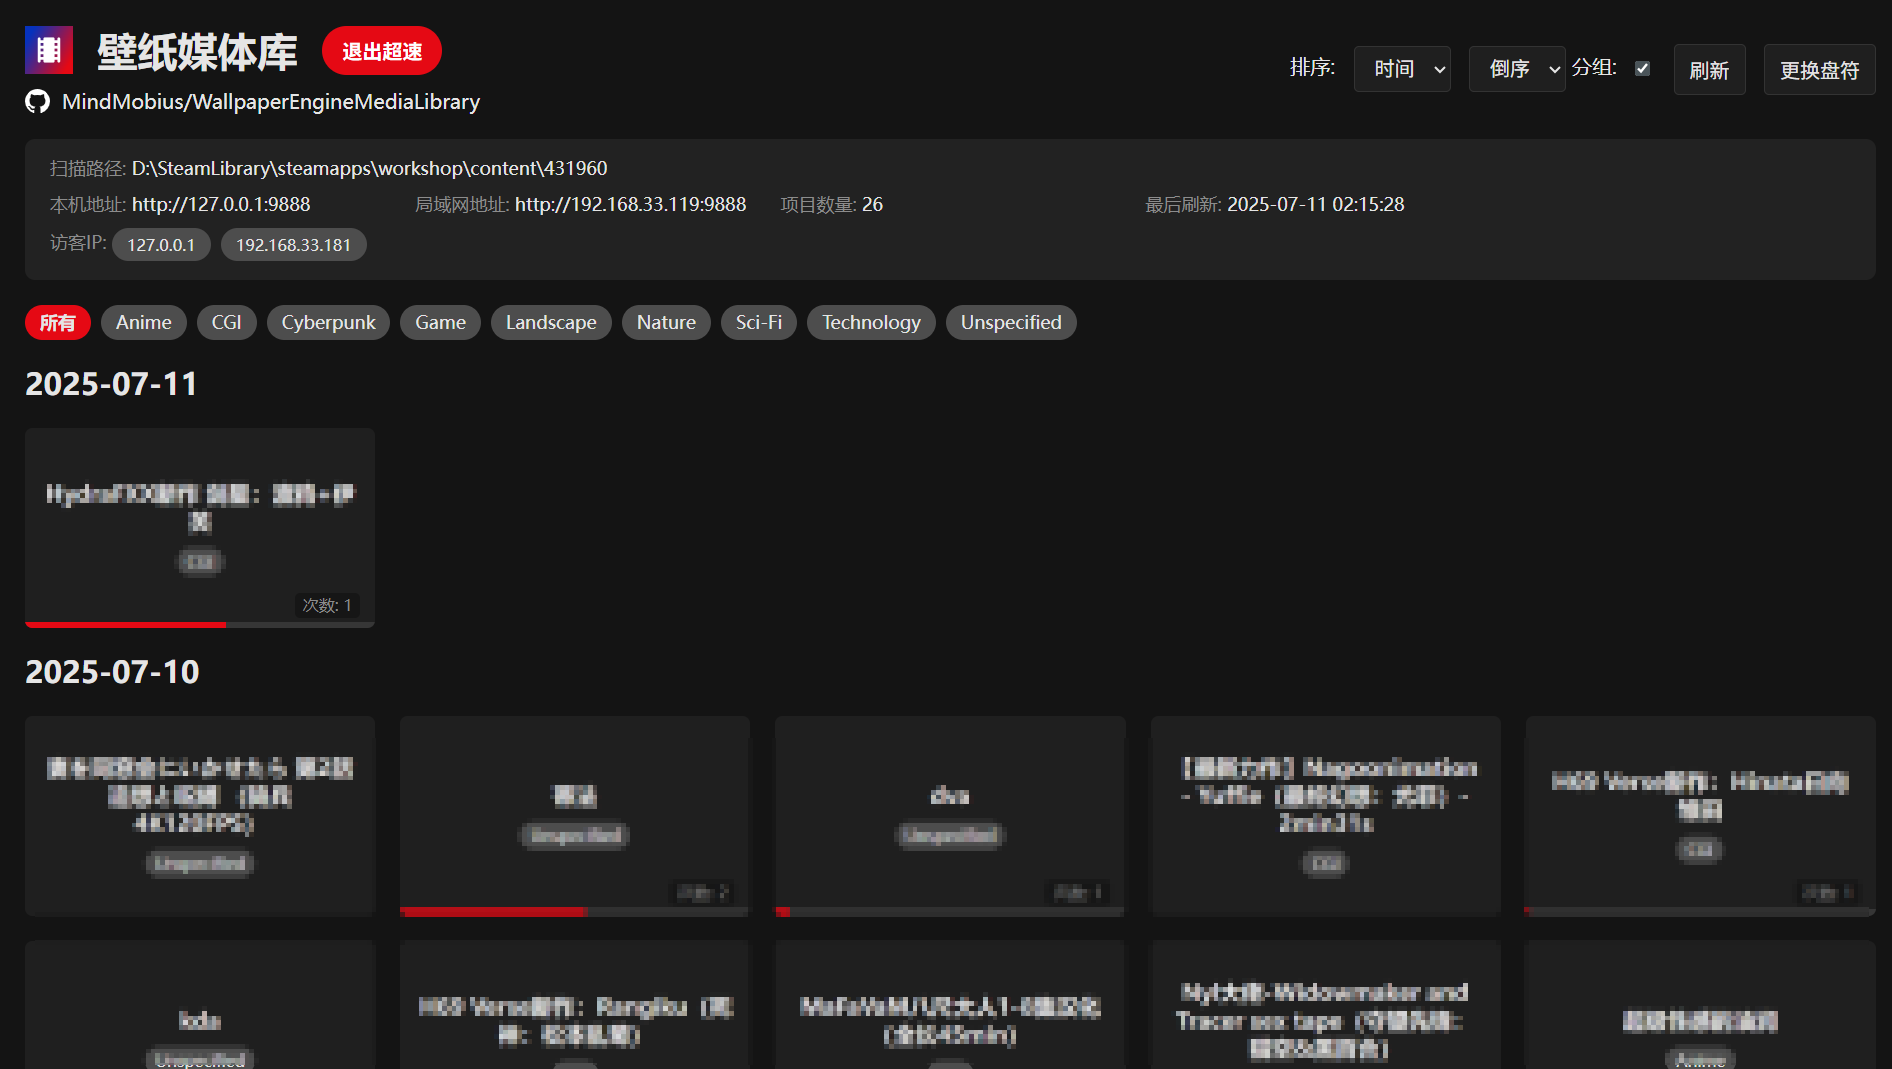
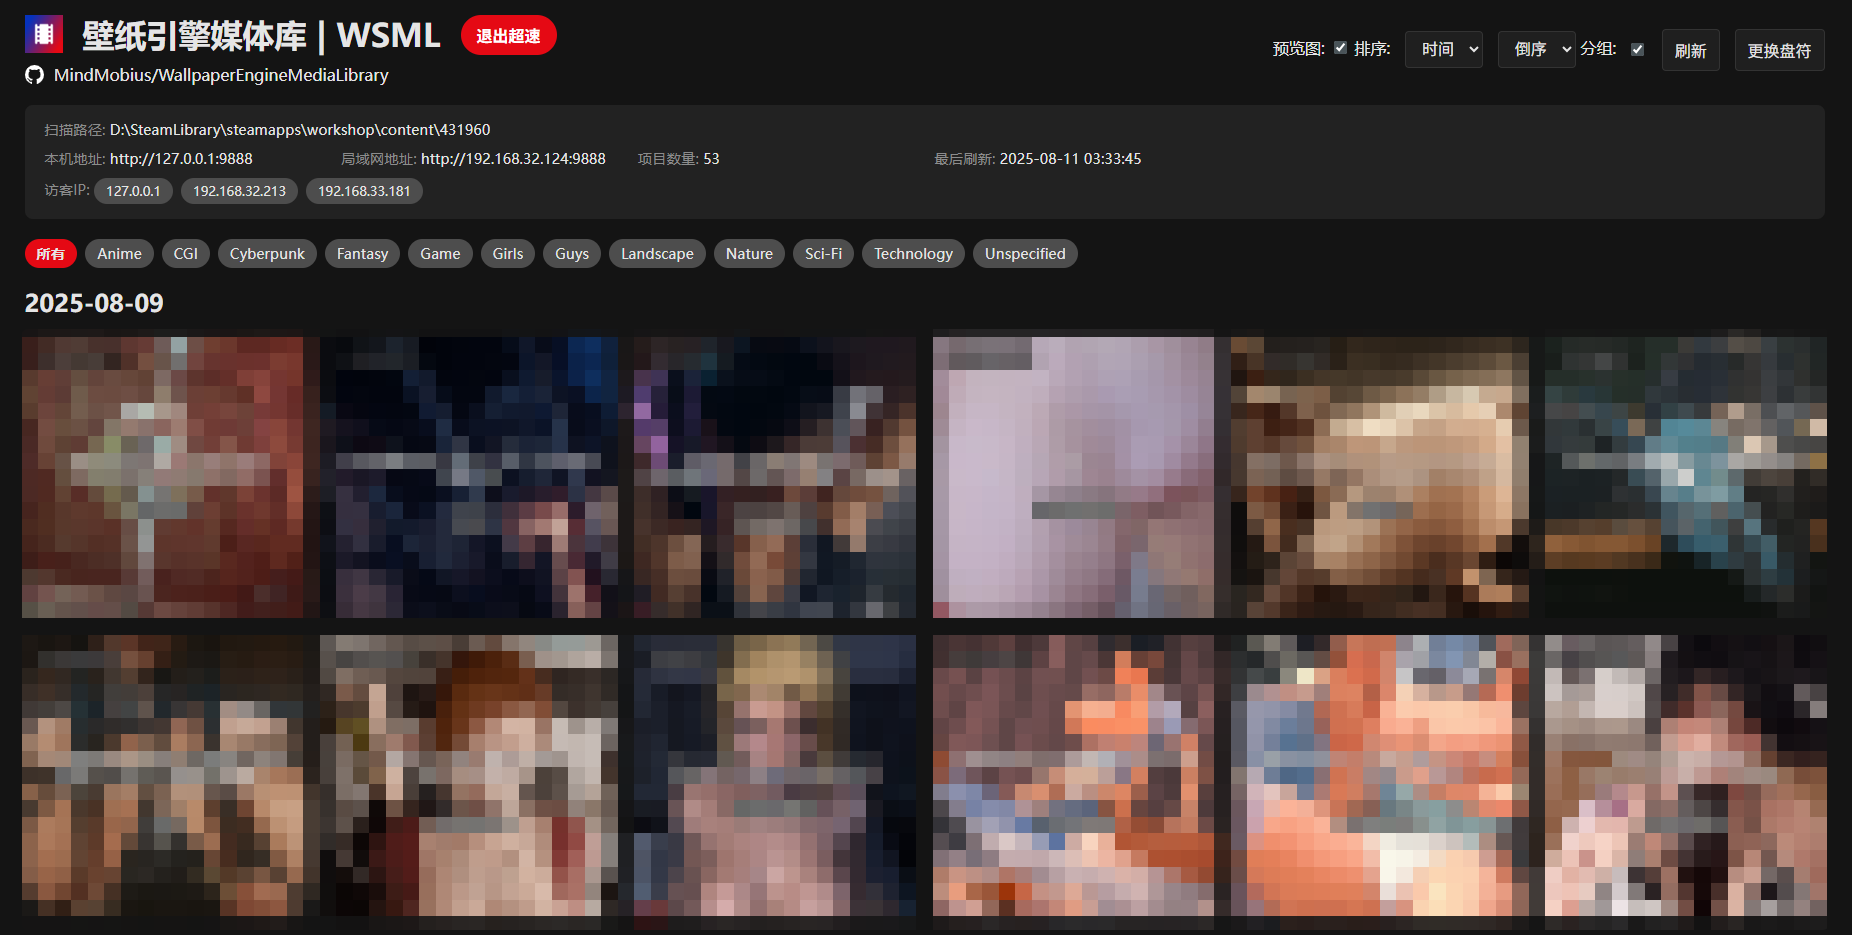
feat(README): 更新功能描述并添加新特性
- 自动识别 Wallpaper Engine 路径
- 增加预览图显示开关
- 显示文件夹名称（ID）
- 优化智能排序描述
- 提及移动设备支持
- 新增更新日志部分

diff --git a/README.md b/README.md
@@ -19,16 +19,16 @@
 
 Wallpaper Engine Media Library (WEML) 帮你轻松解决这些问题！
 
-*   **超轻量设计**：运行后通过浏览器访问即可进入初始界面。
+*   **超轻量设计**：运行后通过浏览器访问即可进入初始界面。自动识别 Wallpaper Engine 的路径，点击AUTO即可进入 WEML。
     
     <img src="screenshot/picture_3.png" height="200">
-*   **便捷的媒体库**：手动选择 Wallpaper Engine 下载目录，即可进入 WEML。默认只显示安全内容。
+*   **便捷的媒体库**：默认只显示安全内容。卡片支持显示预览图（默认关闭）和文件夹名称，方便快速定位。
 
     <img src="screenshot/picture_4.png" height="200">
 *   **超速模式**：开启后，你就能看到你精选的壁纸。
 
     <img src="screenshot/picture_5.png" height="200">
-*   **智能排序**：壁纸卡片按照日期、时间或名称排序，卡片上直接显示壁纸标题。
+*   **智能排序**：壁纸卡片按照日期、时间或名称排序，
 
     <img src="screenshot/picture_6.png" height="200">
 *   **在线预览**：点击壁纸卡片，即可在浏览器中直接欣赏壁纸。
@@ -37,9 +37,10 @@ Wallpaper Engine Media Library (WEML) 帮你轻松解决这些问题！
 *   **播放记录**：记录查看次数和上次播放进度，方便下次快速定位。
 
     <img src="screenshot/picture_8.png" height="200">
-*   **多端同步**：在同一局域网内，多设备通过浏览器访问，数据实时同步。
+*   **多端同步**：在同一局域网内，多设备通过浏览器访问，数据实时同步。支持手机、平板等移动设备。
   
     <img src="screenshot/picture_9.png" height="200">
+    <img src="screenshot/picture_10.png" height="200">
 
 >   **提示**：如果无法访问，请检查电脑防火墙是否关闭，或端口 9888 是否开放。
 ## 使用
@@ -89,3 +90,12 @@ Wallpaper Engine Media Library (WEML) 帮你轻松解决这些问题！
 
 *   本项目仅为壁纸内容浏览技术分享，不涉及内容分发、存储、引导或下载。
 *   Wallpaper Engine 是 Steam 上发行的软件。本项目不涉及对其内容的修改和二次分发。请支持正版：[Wallpaper_Engine](https://store.steampowered.com/app/431960/Wallpaper_Engine/)
+
+## 更新日志
+
+### v1.1.0 (2025-08-11)
+- 优化 Steam 库检索逻辑，自动识别壁纸库路径
+- 增加预览图显示开关，用户可自行选择是否展示
+- 显示文件夹名（即 ID），方便识别壁纸
+- 改进分级读取机制，避免识别错误
+- 修复类型读取异常问题，避免遗漏
